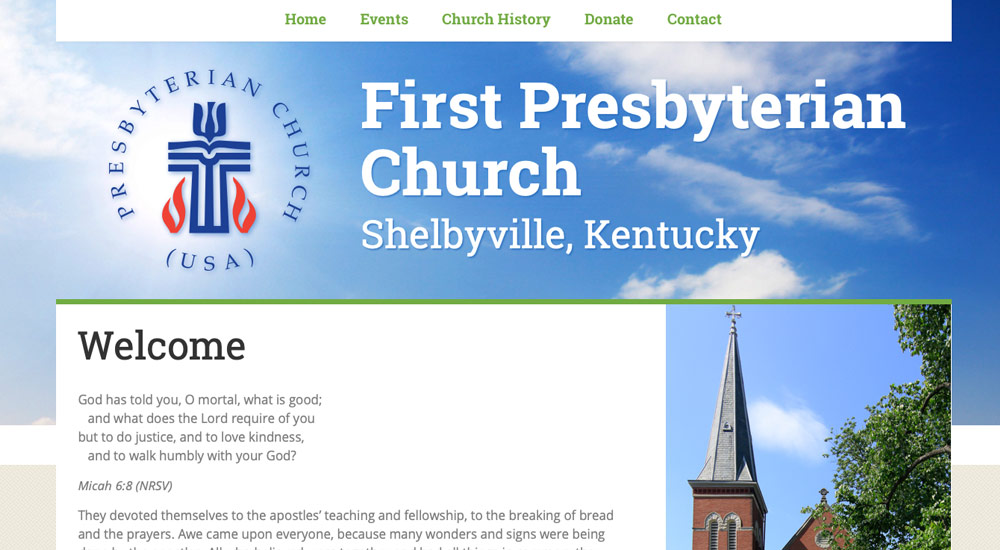
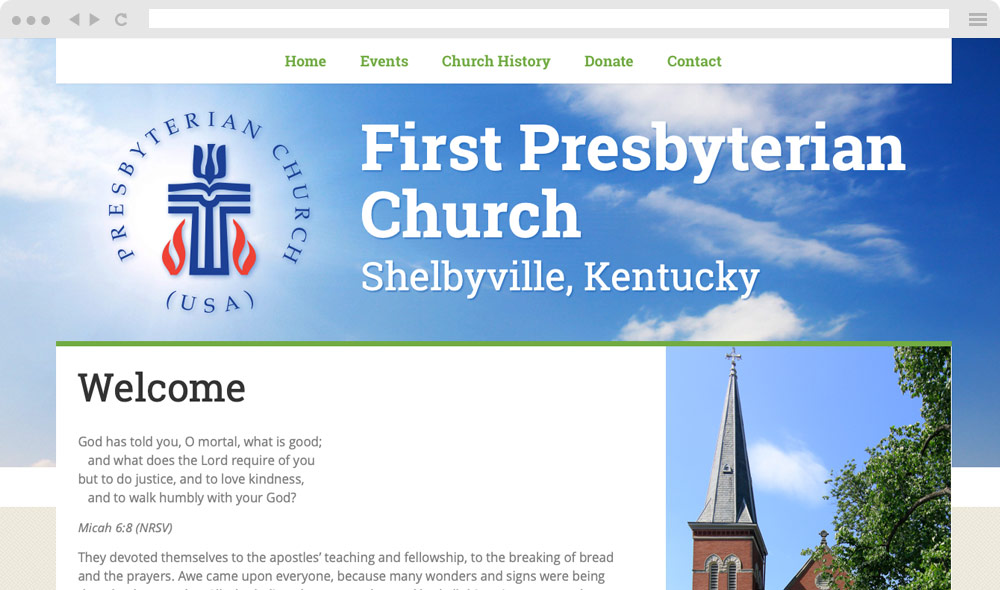
image fixins

diff --git a/src/components/styles-content.css b/src/components/styles-content.css
@@ -19,7 +19,7 @@
 
 @media only screen and (min-width: 900px) {
   .featured-image-background {
-    height: 480px;
+    height: 500px;
   }
   .featured-image-container {
     padding: 1.75em 0;

diff --git a/src/markdown/wordpress-twilektalk.md b/src/markdown/wordpress-twilektalk.md
@@ -2,7 +2,7 @@
 title: "Podcast Website"
 date: "201907-29"
 thumbnailimage: "../images/thumbnails/thumbnail-twilektalk.jpg"
-featuredimage: "../images/featuredimages/featured-image-twilektalk-2.jpg"
+featuredimage: "../images/featuredimages/featured-image-twilektalk.jpg"
 desc: "This website was built to be a home and promotional platform for a Star Wars podcast. WordPress was a great choice as a content management system because it’s flexible enough to host the podcast, as well as blog posts and videos, and because its backend user interface is friendly, I felt confident about handing it off to the site owners to let them add their own content (not to mention, being free, it wouldn’t strain the budget).
 
 I designed and built a custom theme for this project. I created the design in Sketch, (along with a custom logo designed in Illustrator and implemented on the site as SVG) and when the clients approved, I began development. I wanted to test out some newer browser technologies, so I opted not to use a layout framework and instead used CSS Grid. Using @supports, the site is able to detect and serve a grid layout to any browser that supports grid, and serve a simple float-based layout to any browser that doesn’t. Using the same technique, I used flexbox for the header and footer menus, with a float layout fallback for older browsers. The site is responsive and designed to make the content as easy to read as possible at any screen size.
@@ -23,4 +23,4 @@ skills:
 ---
 
 ![alt text](../images/screenshots/twilektalk-home.jpg "Twilek Talk")
-![alt text](../images/responsiveimages/responsive-images-wag.jpg "The Wag")
+![alt text](../images/responsiveimages/responsive-images-twilek.jpg "Twilek Talk")

diff --git a/src/markdown/wordpress-wagsite.md b/src/markdown/wordpress-wagsite.md
@@ -2,7 +2,7 @@
 title: "Band Website"
 date: "201907-26"
 thumbnailimage: "../images/thumbnails/thumbnail-wag.png"
-featuredimage: "../images/featuredimages/featured-image-wag-2.jpg"
+featuredimage: "../images/featuredimages/featured-image-wag.jpg"
 desc: "Website for local band The Wag to showcase for music, and make it easy to for people find where they are playing next. The site has a good deal of content, so I decided the best course of action would be to split the navigation into two parts. Those parts of the site I considered most essential (upcoming show information, music, store and contact info) went to the top navigation, and the less frequently updated content went to the site footer. The home page has the band’s next show as the most prominent element. For the site’s look, I wanted to feature photos of the band as much as possible. I used large-sized images of the band as header images on the site, so viewers always get a sense of the energy and fun of the band. I used Photoshop to create the site design. Once the band had approved my mockups, I used the Bootstrap framework to speed up front end development, and take care of the heavy lifting of responsive design. I then programmed the front end design into a custom WordPress theme."
 url: "https://www.thewagband.com"
 sourcecode: ""

diff --git a/src/markdown/react-opentdplayer.md b/src/markdown/react-opentdplayer.md
@@ -2,7 +2,7 @@
 title: "Online Trivia Game"
 date: "201907-29"
 thumbnailimage: "../images/thumbnails/thumbnail-opentdb.png"
-featuredimage: "../images/featuredimages/featured-image-opentdb-2.png"
+featuredimage: "../images/featuredimages/featured-image-opentdb.png"
 desc: "Online trivia game I built for fun and learning. The app to connects to the Open Trivia Database and pull down a session token and categories on initialization. Then, when the user has selected a category and a difficulty, it fetches the questions and stores them in the React context. React-spring provides animated feedback and page transitions. It’s simple and works well overall. I’m happy with how this little side project turned out, and I’m eager to apply what I’ve learned about hooks, context and react-spring to other projects. The source code is available on Github."
 url: "https://opentdb-player.herokuapp.com"
 sourcecode: ""
@@ -18,4 +18,4 @@ skills:
 ---
 
 ![alt text](../images/screenshots/opentdb-question.png "Open Trivia Database Player")
-![alt text](../images/responsiveimages/responsive-images-opentdb.png "Open Trivia Database Player")
+![alt text](../images/responsiveimages/responsive-images-opentdb-2.png "Open Trivia Database Player")

diff --git a/src/markdown/nuxt-gaworkerscomp.md b/src/markdown/nuxt-gaworkerscomp.md
@@ -2,7 +2,7 @@
 title: "Workers’ Compensation Website"
 date: "201907-26"
 thumbnailimage: "../images/thumbnails/thumbnail-gaworkers.jpg"
-featuredimage: "../images/featuredimages/featured-image-gaworkers-2.jpg"
+featuredimage: "../images/featuredimages/featured-image-gaworkers.jpg"
 desc: "An informational website for the Georgia Worker’s Compensation system, built with Nuxt.js. My client had an old, non responsive HTML web site that they wanted to update. The goal was for the updated site to have a pleasing, responsive design, be searchable, and be easy to update and add articles to. For this I chose Nuxt.js, a framework for Vue.js that allows for server-side rendering and rapid development. I created a simple Node/MongoDB backend and built an admin area for site administrators to add authors and articles to the site. To aid in rapid developing, I used the Bootstrap 4 framework for both the user-facing and administrative areas of the web site."
 url: "https://www.gaworkerscomp.com/"
 sourcecode: ""

diff --git a/src/markdown/wordpress-churchsite.md b/src/markdown/wordpress-churchsite.md
@@ -2,7 +2,7 @@
 title: "Church Website"
 date: "201907-22"
 thumbnailimage: "../images/thumbnails/thumbnail-church.png"
-featuredimage: "../images/featuredimages/featured-image-fpc-2.jpg"
+featuredimage: "../images/featuredimages/featured-image-fpc.jpg"
 desc: "Website for the First Presbyterian Church of Shelbyville, Kentucky to post events and newsletters, provide information, and collect donations. We settled on WordPress as a content management system, because it would be able to handle all of these requirements at no additional cost to the church. I designed and coded a custom theme using Underscores, Bourbon and Bitters for base styles and the excellent Typi and Mappy-breakpoints libraries to help with reponsive breakpoints and type sizes."
 url: "https://www.fpcshelbyvilleky.com"
 sourcecode: ""
